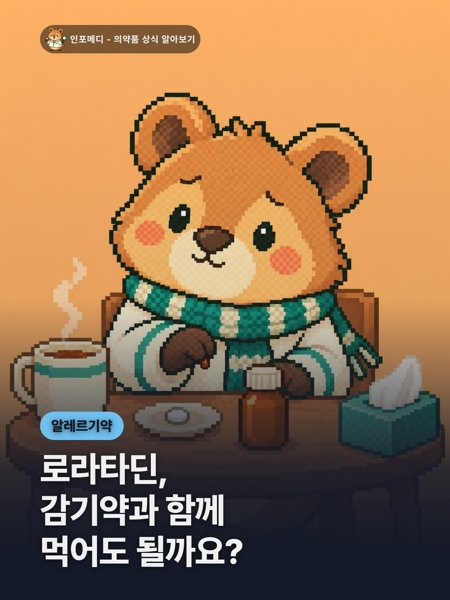
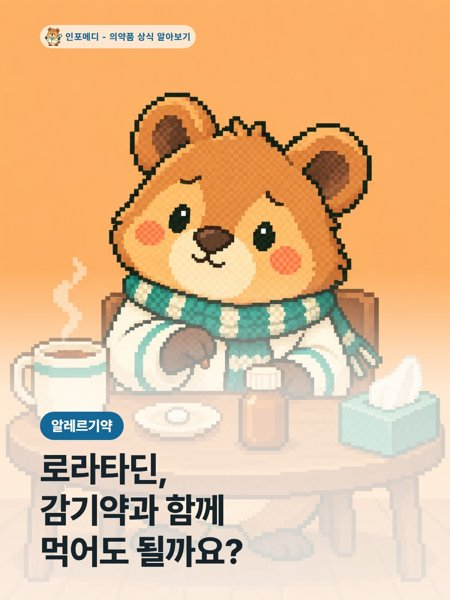
links

diff --git a/index.html b/index.html
@@ -34,7 +34,7 @@
 <section class="section">
 <h2>의약품 정보 <small id="count"></small></h2>
 <div class="grid" id="list">
-<a class="item" href="https://blog.naver.com/info_medi_/224428923337"><img src="c/로라타딘-white.jpg" alt="" loading="lazy">
+<a class="item" href="https://blog.naver.com/info_medi_/224428923337"><img src="c/로라타딘.jpg" alt="" loading="lazy">
 <span><b>로라타딘, 감기약과 함께 먹어도 될까요?</b><small><time datetime="2026-10-05 12:26"></time></small></span></a>
 <a class="item" href="https://blog.naver.com/info_medi_/224428925200"><img src="c/파모티딘.jpg" alt="" loading="lazy">
 <span><b>파모티딘, 위산을 어떻게 줄이는 약일까요?</b><small><time datetime="2026-10-05 07:47"></time></small></span></a>
